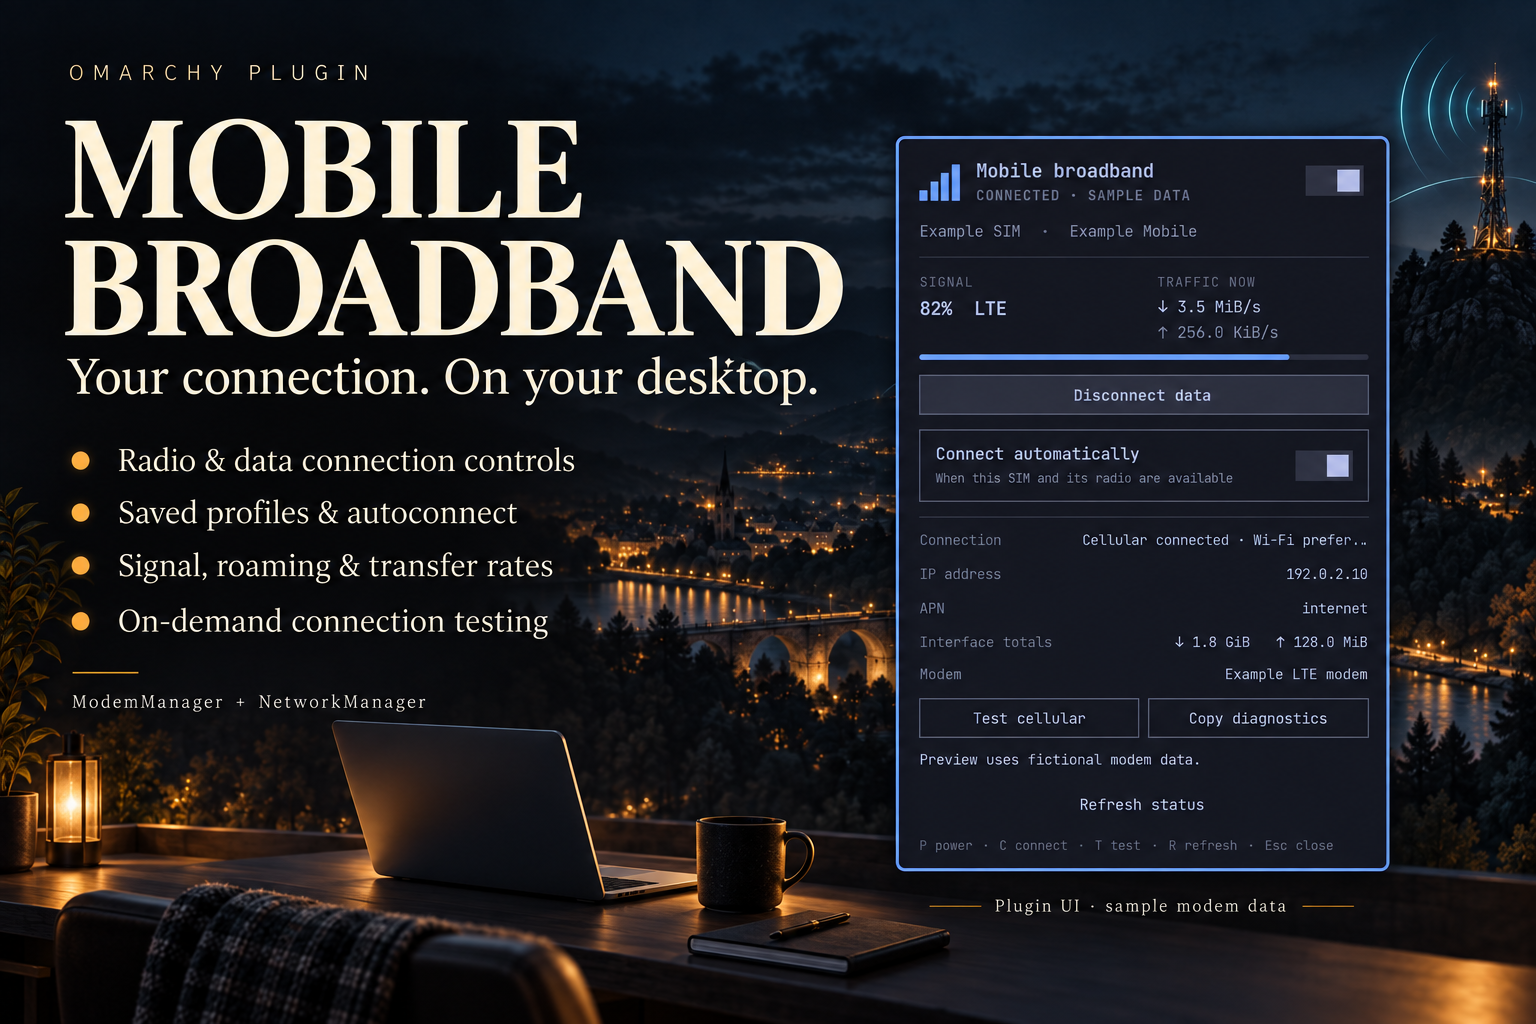
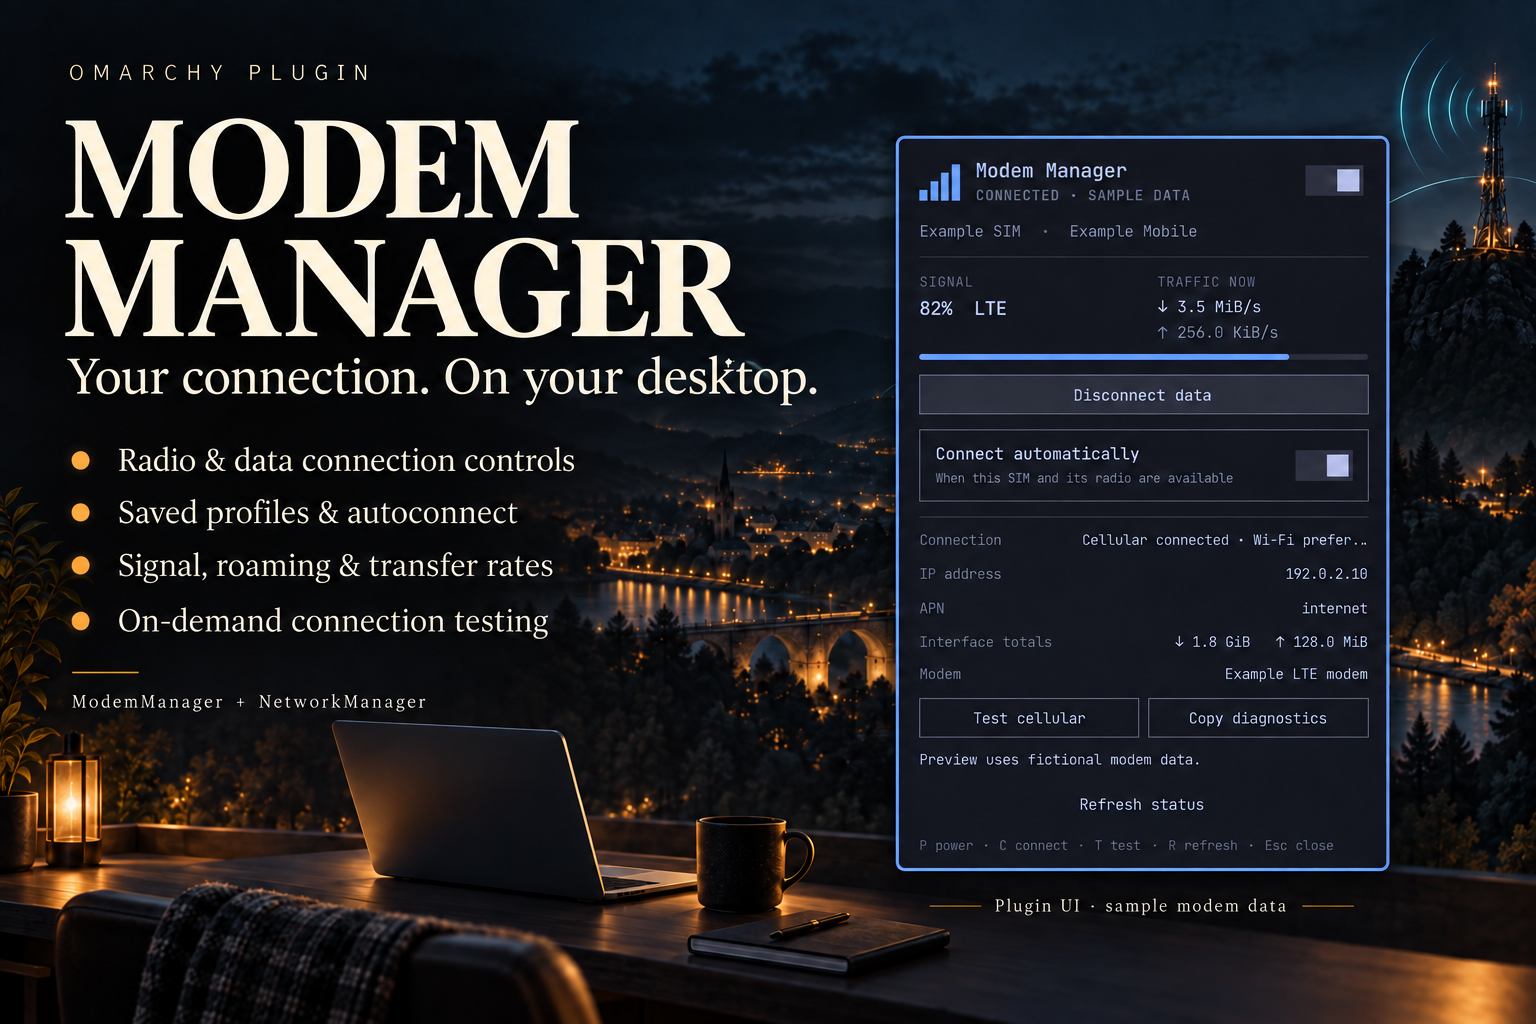
Rename plugin to Modem Manager and add marketplace preview

diff --git a/Panel.qml b/Panel.qml
@@ -43,7 +43,7 @@ Ui.Panel {
     id: button
     anchors.fill: parent
     bar: root.bar
-    tooltipText: "Mobile broadband · " + (root.s.status || "Checking…") + (root.s.carrier ? "\n" + root.s.carrier : "") + "\nClick: controls · Right-click: radio"
+    tooltipText: "Modem Manager · " + (root.s.status || "Checking…") + (root.s.carrier ? "\n" + root.s.carrier : "") + "\nClick: controls · Right-click: radio"
     iconComponent: Component {
       SignalIcon { quality: root.s.signal || 0; powered: !!root.s.radio; connected: !!root.s.connected; foreground: root.barForeground }
     }
@@ -77,7 +77,7 @@ Ui.Panel {
         width: parent.width
         spacing: Style.space(12)
         Ui.PanelHero {
-          title: "Mobile broadband"
+          title: "Modem Manager"
           meta: modem.busy ? "Working…" : root.s.status || "Checking…"
           foreground: root.ink
           fontFamily: root.family

diff --git a/ARTWORK.md b/ARTWORK.md
@@ -1,0 +1,40 @@
+# Marketplace artwork
+
+## Modem Manager rename — 28 September 2026
+
+The final `preview.png` was edited with the built-in image-generation tool to
+use the new Modem Manager name. The image is 1536 × 1024. The original poster
+and unmodified sample UI capture remain as provenance for the earlier artwork.
+
+Edit prompt:
+
+Use case: text-localization. Edit this existing Omarchy plugin marketplace
+poster. Change the large two-line headline from MOBILE / BROADBAND to MODEM /
+MANAGER, using the same ivory serif font, strong hierarchy and available
+left-side area. Also change the inset panel's top heading from Mobile broadband
+to Modem Manager. Preserve every other element: dark lakeside landscape,
+cellular mast with cyan signal arcs, laptop and desk, subtitle Your connection.
+On your desktop., four feature bullets, footer ModemManager + NetworkManager,
+all sample values and SAMPLE DATA labels, preview disclaimer, and layout. No
+other changes or added branding. Output 1536x1024 PNG. Exact new title text:
+MODEM MANAGER; exact inset heading: Modem Manager.
+
+## Screenshot composite revision
+
+The current `preview.png` integrates the supplied panel capture into the artwork
+using built-in imagegen. The original poster is preserved at
+`artwork/poster-original.png`. The unmodified source captures remain under
+`screenshots/`; those are the authoritative UI references, since the composite
+is an image-generated adaptation. Mobile Broadband uses labelled sample data.
+
+Composite prompt:
+
+Edit/composite the first image (Mobile Broadband promotional artwork) to incorporate the second image (real plugin UI with sample data) as a prominent legible flat inset card. Keep 1536x1024 landscape, dark midnight landscape and cellular mast, amber/cyan lighting, warm ivory serif title and all four existing feature bullets. Recompose typography on left roughly 60% and screenshot on right roughly 35%, around 465x706 pixels, preserving screenshot aspect ratio. A straight-on upright screenshot card with subtle border and shadow. Keep screenshot's exact interface, text and 'SAMPLE DATA' label faithful; no invented UI, no perspective tilt. Title MOBILE BROADBAND can span two lines and should fit without overlap, retain subtitle and all feature bullets. Keep subtle landscape and laptop where space permits. Small caption below card 'Plugin UI · sample modem data'. Elegant integrated product showcase matching the original style.
+
+`preview.png` — 1536 × 1024 PNG. Generated using the built-in imagegen tool.
+Promotional illustration, not a screenshot of the plugin. Feature text is based
+on the plugin README. No modem code was changed as part of this artwork task.
+
+## Final prompt
+
+Use case: ads-marketing. Create a polished landscape 1536x1024 marketplace promotional image for an Omarchy Linux desktop plugin. Dark-mode editorial poster, premium technology illustration. Near-black charcoal and midnight-blue background, warm ivory typography, restrained amber lighting with subtle cyan cellular signal accents. It should be a companion to a sophisticated nocturnal British railway poster: large ivory serif title, airy left-aligned copy, amber bullet dots, cinematic illustrated subject on right. Subject: slim open Linux laptop on a dark desk overlooking distant hills and city at night, with an elegant cellular communications mast and subtle radiating signal arcs connecting the landscape. Quiet, refined, plausible technology, no brand logos, no fake application screenshot, no watermark. Exact text: small eyebrow "OMARCHY PLUGIN"; large two-line title "MOBILE" then "BROADBAND"; subtitle "Your connection. On your desktop."; four readable bullet points: "Radio & data connection controls", "Saved profiles & autoconnect", "Signal, roaming & transfer rates", "On-demand connection testing". Small footer "ModemManager + NetworkManager". Give title ample room and clear hierarchy, spacious margins, artwork integrated seamlessly with near-black text area. Feature copy must be spelled exactly.

diff --git a/screenshots/README.md b/screenshots/README.md
@@ -1,0 +1,17 @@
+# Screenshot provenance
+
+`controls-sample.png` was rendered on 25 September 2026 using Quickshell's
+offscreen Qt renderer. It uses the production `Panel.qml` content column,
+`SignalIcon.qml`, and installed Omarchy UI components and theme. A standalone
+host supplies fictional modem state instead of executing the production
+backend. The image is captured with Qt's `grabToImage`, not generated by AI.
+
+The panel's normal logical width and theme padding are retained; output is
+rendered at double resolution. The sample labels are visible in the image.
+The address 192.0.2.10 is a documentation example. Signal strength, traffic,
+profile, carrier and connection state are illustrative, not measurements.
+
+There was no modem available to capture live on the screenshot machine.
+
+This capture predates the Modem Manager rename and retains the earlier panel
+heading. The current promotional composite uses the new name.

diff --git a/VALIDATION.md b/VALIDATION.md
@@ -1,5 +1,19 @@
 # Release validation
 
+## Version 1.1.1 — 28 September 2026
+
+Renamed the display name, panel title, tooltip, and README to **Modem Manager**.
+Added marketplace artwork with that name and documented the sample UI capture.
+The permanent plugin ID remains `jon.modem`. Changes since the listed v1.1.0
+snapshot are presentation, assets, and documentation only.
+
+`MODEM_SYSTEMD_TESTS=1 bash scripts/validate.sh` passed: 25 backend/security tests
+(including both live systemd cleanup cases), five recovery tests, manifest
+validation, installer syntax, and QML lint. `git diff --check` passed. No modem
+or network controls were exercised for this presentation update.
+
+## Version 1.1.0
+
 Version 1.1.0 follows the [Omarchy authoring guide](https://plugins.omarchy.org/develop.html)
 and [publishing requirements](https://plugins.omarchy.org/publish.html).
 

diff --git a/README.md b/README.md
@@ -1,4 +1,14 @@
-# Mobile Broadband for Omarchy
+# Modem Manager for Omarchy
+
+![Modem Manager: dark-mode artwork with cellular connectivity and plugin features](preview.png)
+
+## Interface preview
+
+The real QML panel content rendered in Omarchy's dark theme with **fictional
+sample modem data**. This is a UI preview, not a live modem capture; no network
+connection or hardware settings were changed to produce it.
+
+<img src="screenshots/controls-sample.png" alt="Modem Manager controls with clearly labelled sample data" width="390">
 
 A native, theme-aware Omarchy bar panel for ModemManager and NetworkManager.
 Plugin ID: `jon.modem`. Licensed under MIT.
